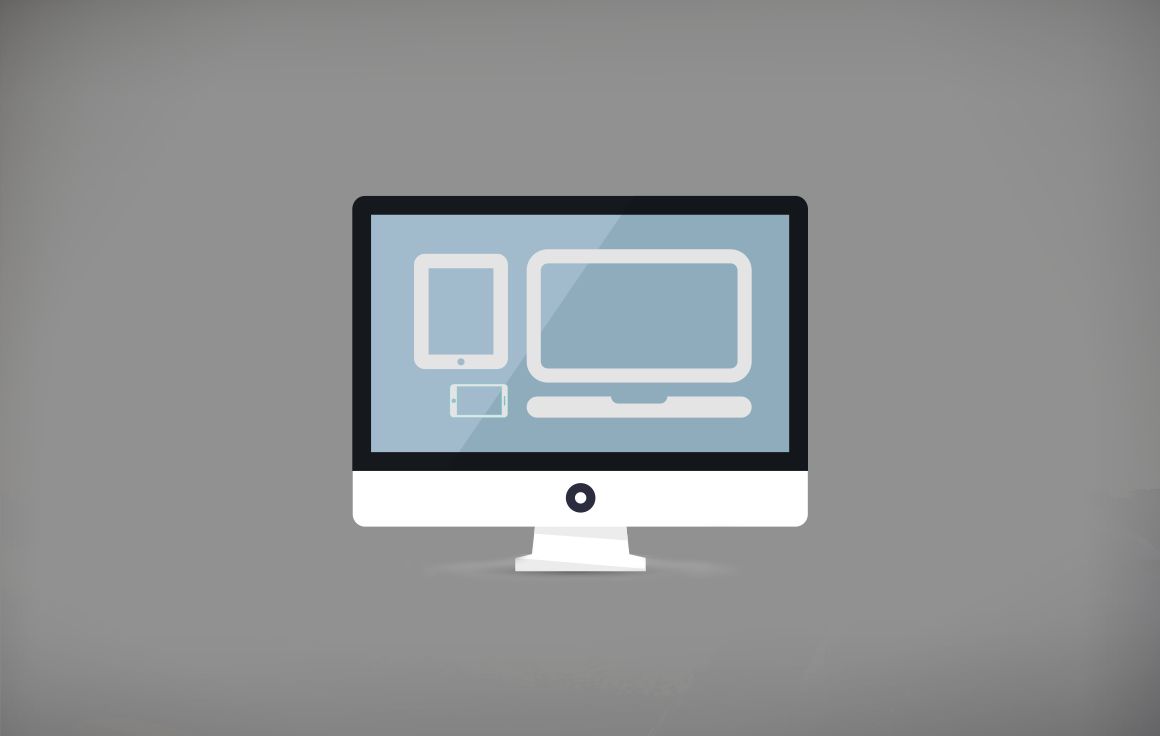
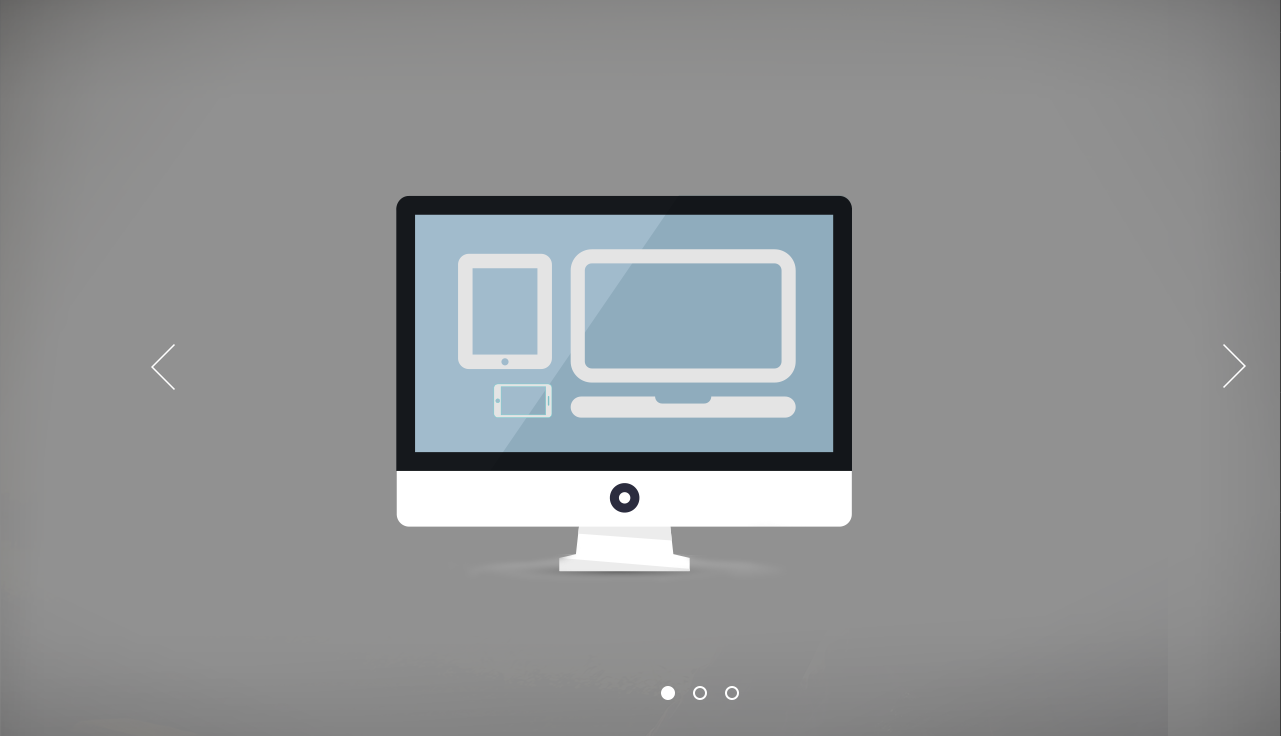
-

diff --git a/css/common.css b/css/common.css
@@ -1,0 +1,39 @@
+@charset "utf-8";
+@import url(http://fonts.googleapis.com/css?family=Lato:400,700);
+*{margin: 0;padding: 0;}
+html{overflow-y:scroll;}
+li{list-style:none;}
+img{max-width: 100%;}
+fieldset{border:none;}
+legend, hr, .blind {position:absolute; left:-9999px;}
+caption{text-indent:-9999px; height:0; overflow:hidden; visibility:hidden;}
+img,button,input[type="submit"],input[type="button"],input[type="reset"]{ border:none; vertical-align:middle;}
+a{text-decoration:none; color:#101010;}
+body, input, textarea, select, button{ color:#101010; font:14px/1.33 lato, Nanum Gothic,'나눔고딕', Malgun Gothic, '맑은고딕', Dotum, '돋움', arial, sans-serif;}
+input, select, button {vertical-align:middle;}
+input[type="text"], input[type="email"],input[type="url"], input[type="search"],input[type="password"], select, textarea{border:1px solid #c8c8c8;}
+address, em{font-style:normal;}
+h1, h2, h3, h4, h5, h6, strong{font-size:100%; font-weight:normal;}
+.clearFix:after{content:""; display:block;clear:both;}
+.clearFix{*zoom:1;}
+button, input[type="button"], input[type="submit"], input[type="reset"]{cursor:pointer;}
+table{border-collapse:collapse;border-spacing:0;}
+th{font-weight: normal;}
+textarea{resize:none;vertical-align: middle;padding: 2px;}
+*,
+*:after,*:before {box-sizing: border-box;}
+#wrap{position: relative;width: 100%;}
+/* #header{position: absolute;top:0;right: 0;} */
+#nav{z-index: 10;position: fixed;top:0;left: 0;width: 100%;display: none;}
+#nav ul{background-color: #3c3c3c;}
+#nav ul>li{float: left;width:12.5%;height: 80px;border-left: 1px solid #4c4c4c;}
+#nav ul>li:first-child{background: #f6f6f6;border-left: none;}
+#nav ul>li>h1{padding: 30px;text-align: center;}
+#nav ul>li>a{text-align: center;display: block;padding: 30px;color:#fff;}
+#container{width: 100%;background-color: #f6f6f6;}
+#container section h2{font-size: 35px;padding: 24px 0 54px 66px;background: url(../images/common/bg_line_h2.png) 66px 0 no-repeat;color:#3d3d3d;}
+#container section h2 span{font-size: 48px;font-weight: bold;}
+#container section{padding: 37px 0;}
+
+.slideBabber>li{width: 100%;}
+.slideBabber>li>img{width: 100%;}

diff --git a/index.html b/index.html
@@ -7,7 +7,7 @@
   <meta name="Description" content="퍼블리셔 고지은 포트폴리오입니다">
   <meta http-equiv="X-UA-Compatible" content="ie=edge">
   <meta name="viewport" content="width=device-width,initial-scale=1.0,minimum-scale=1.0,maximum-scale=1.0,user-scalable=no">
-  <script type="text/javascript" src="js/html5shiv.js"></script>
+  <script type="text/javascript" src="js/html5shiv.min.js"></script>
   <script type="text/javascript" src="js/jquery.min.js"></script>
   <script type="text/javascript" src="js/jquery.bxslider.min.js"></script>
   <script type="text/javascript"></script>
@@ -15,11 +15,11 @@
   <title>GGOZI PORTFOLIO</title>
  </head>
  <body>
-	<div id="wrap">
+	<div id="wrap clearFix">
 		<header id="header">
 			<nav id="nav">
-				<ul>
-					<li><h1><a href="#"><img src="images/common/logo_main.png" alt="home"></a></h1></li>
+				<ul class="clearFix">
+					<li><h1><a href="index.html"><img src="images/common/logo_main.png" alt="home"></a></h1></li>
 					<li><a href="#">SKILL</a></li>
 					<li><a href="#">WORKS</a></li>
 					<li><a href="#">PROFILE</a></li>
@@ -33,7 +33,7 @@
 		<div id="container">
 			<section>
 				<h2>HELLO,<br/>MY NAME IS <span>JI-EUN GO</span></h2>
-				<ul>
+				<ul class="slideBabber">
 					<li>
 						<img src="images/main/bg_slide1.png" alt="publisher">
 						<p>
@@ -66,11 +66,11 @@
 				<p>Using <strong>XHTML1.0</strong>, <strong>HTML5</strong></p>
 				<p>Using <strong>CSS2</strong>, <strong>CSS3</strong> and I Can Use <strong>SASS</strong>.</p>
 				<p>Working On <strong>JQUERY</strong>, <strong>JAVASCRIPT</strong></p>
-				<p><strong>GULP</strong>, <strong>GITHUB</strong>, <strong>FONTELLO</strong> Availabel</p>
+				<p><strong>GULP</strong>, <strong>GITHUB</strong>, <strong>FTP</strong> Availabel</p>
 				<p>
 					I Code<br />
 					<strong>Desktop(PC) Web</strong>, <strong>Mobile Web</strong>, <strong>Resposive Web</strong><br />
-					<strong>Cross Browsing</strong> / <strong>Web Standards</strong>
+					<strong>Cross Browsing</strong> / <strong>Web Standards</strong> / <strong>Web Accessibility</strong>
 				</p>
 			</section>
 			<section>
